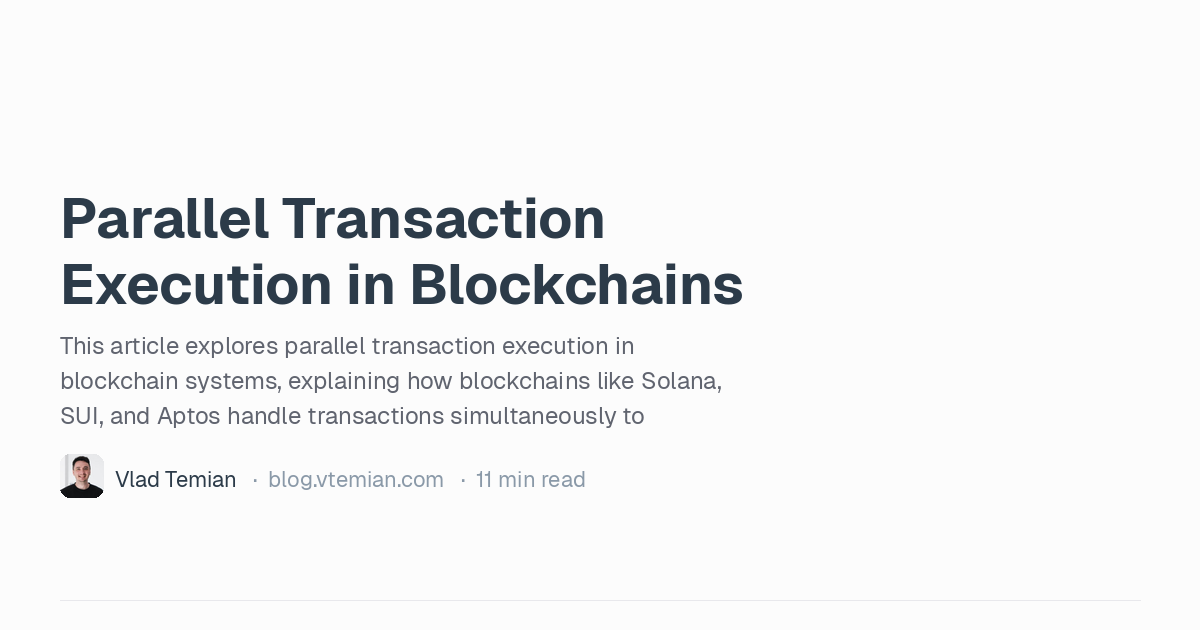
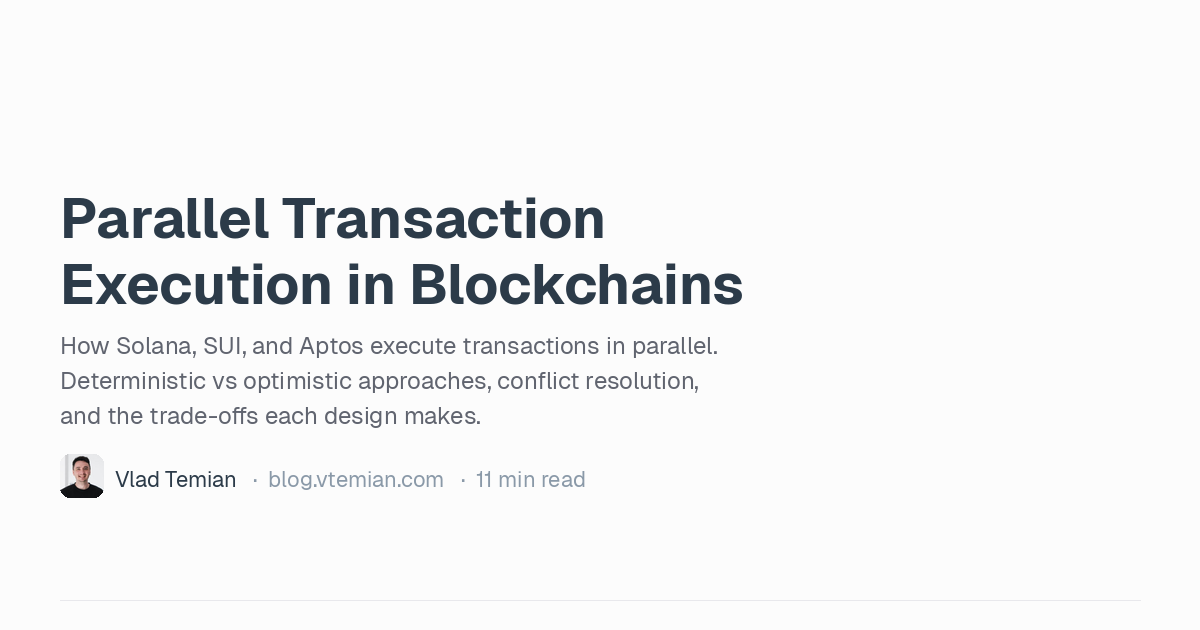
deploy: d2062916963cb2e18de21c3523e08078db9f6926

Changed region(s): [[0.0308, 0.5429, 0.6167, 0.6937]]

diff --git a/post/vibe-infer/index.html b/post/vibe-infer/index.html
@@ -1,4 +1,4 @@
-<!doctype html><html lang=en><head><script>localStorage.getItem("theme")==="dark"&&document.documentElement.classList.add("dark")</script><meta http-equiv=X-UA-Compatible content="IE=edge"><meta name=viewport content="width=device-width,minimum-scale=1"><link rel=preconnect href=https://cdn.jsdelivr.net crossorigin><link rel=stylesheet href=https://cdn.jsdelivr.net/npm/geist@1/dist/fonts/geist-sans/style.css><link rel=stylesheet href=https://cdn.jsdelivr.net/npm/geist@1/dist/fonts/geist-mono/style.css><link rel=stylesheet href=//cdnjs.cloudflare.com/ajax/libs/highlight.js/11.9.0/styles/nord.min.css><script src=//cdnjs.cloudflare.com/ajax/libs/highlight.js/11.9.0/highlight.min.js></script><script>hljs.highlightAll()</script><meta charset=utf-8><meta name=robots content="index,follow"><link rel=canonical href=https://blog.vtemian.com/post/vibe-infer/><link rel=icon type=image/svg+xml href=https://blog.vtemian.com/favicon.svg><link rel=apple-touch-icon href=https://blog.vtemian.com/favicon.svg><meta name=keywords content="gpu programming,webgpu,claude code,ai assisted learning,vibe coding,mnist,compute shaders"><meta name=description content="Everyone talks about AI-assisted learning. Here's what it actually looks like. A 155-message journey from zero WebGPU knowledge to a working MNIST classifier, with the entire conversation captured and browsable."><meta property="og:url" content="https://blog.vtemian.com/post/vibe-infer/"><meta property="og:site_name" content="Vlad Temian - Centrist Tech Optimist"><meta property="og:title" content="vibe-infer: Learning GPU Programming with Claude Code"><meta property="og:description" content="Everyone talks about AI-assisted learning. Here's what it actually looks like. A 155-message journey from zero WebGPU knowledge to a working MNIST classifier, with the entire conversation captured and browsable."><meta property="og:locale" content="en_US"><meta property="og:type" content="article"><meta property="article:published_time" content="2026-02-18T12:00:00+02:00"><meta property="article:modified_time" content="2026-02-18T12:00:00+02:00"><meta property="article:tag" content="Gpu Programming"><meta property="article:tag" content="Ai Tools"><meta property="article:tag" content="Webgpu"><meta property="article:tag" content="Learning"><meta property="og:image" content="https://blog.vtemian.com/post/vibe-infer/og.png"><meta name=twitter:card content="summary_large_image"><meta name=twitter:title content="vibe-infer: Learning GPU Programming with Claude Code"><meta name=twitter:description content="Everyone talks about AI-assisted learning. Here's what it actually looks like. A 155-message journey from zero WebGPU knowledge to a working MNIST classifier, with the entire conversation captured and browsable."><meta name=twitter:image content="https://blog.vtemian.com/post/vibe-infer/og.png"><script type=application/ld+json>{"@context":"https://schema.org","@type":"BlogPosting","mainEntityOfPage":{"@type":"WebPage","@id":"https:\/\/blog.vtemian.com\/post\/vibe-infer\/"},"headline":"vibe-infer: Learning GPU Programming with Claude Code","description":"Everyone talks about AI-assisted learning. Here\u0027s what it actually looks like. A 155-message journey from zero WebGPU knowledge to a working MNIST classifier, with the entire conversation captured and browsable.","inLanguage":"en-US","author":{"@type":"Person","name":"Vlad Temian","url":"https:\/\/blog.vtemian.com\/","sameAs":["https://github.com/vtemian","https://linkedin.com/in/vtemian","https://x.com/vtemian"]},"publisher":{"@type":"Person","name":"Vlad Temian"},"datePublished":"2026-02-18T12:00:00\u002b02:00","dateModified":"2026-02-18T12:00:00\u002b02:00","url":"https:\/\/blog.vtemian.com\/post\/vibe-infer\/","wordCount":1234,"timeRequired":"PT6M","keywords":["gpu programming","ai tools","webgpu","learning"]}</script><script type=application/ld+json>{"@context":"https://schema.org","@type":"BreadcrumbList","itemListElement":[{"@type":"ListItem","position":1,"name":"Home","item":"https:\/\/blog.vtemian.com\/"},{"@type":"ListItem","position":2,"name":"Post","item":"https:\/\/blog.vtemian.com\/post/"},{"@type":"ListItem","position":3,"name":"vibe-infer: Learning GPU Programming with Claude Code","item":"https:\/\/blog.vtemian.com\/post\/vibe-infer\/"}]}</script><title>vibe-infer: Learning GPU Programming with Claude Code</title>
+<!doctype html><html lang=en><head><script>localStorage.getItem("theme")==="dark"&&document.documentElement.classList.add("dark")</script><meta http-equiv=X-UA-Compatible content="IE=edge"><meta name=viewport content="width=device-width,minimum-scale=1"><link rel=preconnect href=https://cdn.jsdelivr.net crossorigin><link rel=stylesheet href=https://cdn.jsdelivr.net/npm/geist@1/dist/fonts/geist-sans/style.css><link rel=stylesheet href=https://cdn.jsdelivr.net/npm/geist@1/dist/fonts/geist-mono/style.css><link rel=stylesheet href=//cdnjs.cloudflare.com/ajax/libs/highlight.js/11.9.0/styles/nord.min.css><script src=//cdnjs.cloudflare.com/ajax/libs/highlight.js/11.9.0/highlight.min.js></script><script>hljs.highlightAll()</script><meta charset=utf-8><meta name=robots content="index,follow"><link rel=canonical href=https://blog.vtemian.com/post/vibe-infer/><link rel=icon type=image/svg+xml href=https://blog.vtemian.com/favicon.svg><link rel=apple-touch-icon href=https://blog.vtemian.com/favicon.svg><meta name=keywords content="gpu programming,webgpu,claude code,ai assisted learning,vibe coding,mnist,compute shaders"><meta name=description content="Everyone talks about AI-assisted learning. Here's what it actually looks like. From zero WebGPU knowledge to a working MNIST classifier in 155 messages."><meta property="og:url" content="https://blog.vtemian.com/post/vibe-infer/"><meta property="og:site_name" content="Vlad Temian - Centrist Tech Optimist"><meta property="og:title" content="vibe-infer: Learning GPU Programming with Claude Code"><meta property="og:description" content="Everyone talks about AI-assisted learning. Here's what it actually looks like. From zero WebGPU knowledge to a working MNIST classifier in 155 messages."><meta property="og:locale" content="en_US"><meta property="og:type" content="article"><meta property="article:published_time" content="2026-02-18T12:00:00+02:00"><meta property="article:modified_time" content="2026-02-18T12:00:00+02:00"><meta property="article:tag" content="Gpu Programming"><meta property="article:tag" content="Ai Tools"><meta property="article:tag" content="Webgpu"><meta property="article:tag" content="Learning"><meta property="og:image" content="https://blog.vtemian.com/post/vibe-infer/og.png"><meta name=twitter:card content="summary_large_image"><meta name=twitter:title content="vibe-infer: Learning GPU Programming with Claude Code"><meta name=twitter:description content="Everyone talks about AI-assisted learning. Here's what it actually looks like. From zero WebGPU knowledge to a working MNIST classifier in 155 messages."><meta name=twitter:image content="https://blog.vtemian.com/post/vibe-infer/og.png"><script type=application/ld+json>{"@context":"https://schema.org","@type":"BlogPosting","mainEntityOfPage":{"@type":"WebPage","@id":"https:\/\/blog.vtemian.com\/post\/vibe-infer\/"},"headline":"vibe-infer: Learning GPU Programming with Claude Code","description":"Everyone talks about AI-assisted learning. Here\u0027s what it actually looks like. From zero WebGPU knowledge to a working MNIST classifier in 155 messages.","inLanguage":"en-US","author":{"@type":"Person","name":"Vlad Temian","url":"https:\/\/blog.vtemian.com\/","sameAs":["https://github.com/vtemian","https://linkedin.com/in/vtemian","https://x.com/vtemian"]},"publisher":{"@type":"Person","name":"Vlad Temian"},"datePublished":"2026-02-18T12:00:00\u002b02:00","dateModified":"2026-02-18T12:00:00\u002b02:00","url":"https:\/\/blog.vtemian.com\/post\/vibe-infer\/","wordCount":1234,"timeRequired":"PT6M","keywords":["gpu programming","ai tools","webgpu","learning"]}</script><script type=application/ld+json>{"@context":"https://schema.org","@type":"BreadcrumbList","itemListElement":[{"@type":"ListItem","position":1,"name":"Home","item":"https:\/\/blog.vtemian.com\/"},{"@type":"ListItem","position":2,"name":"Post","item":"https:\/\/blog.vtemian.com\/post/"},{"@type":"ListItem","position":3,"name":"vibe-infer: Learning GPU Programming with Claude Code","item":"https:\/\/blog.vtemian.com\/post\/vibe-infer\/"}]}</script><title>vibe-infer: Learning GPU Programming with Claude Code</title>
 <link rel=stylesheet href=https://blog.vtemian.com/stylesheets/main.min.bf6f543d20d329f97b1ea989f7ccd774a56857411fdc6adbd08979e4303a450e.css media=screen><meta name=google-site-verification content="2qk_e0y84NNSVpaorKgeNURYF9Ni3UyJvPq9GZdGEgs"></head><body class="bg-bg font-sans text-sm leading-relaxed text-ink antialiased"><div class="mx-auto flex max-w-2xl flex-col gap-12 px-5 py-12"><a href=https://blog.vtemian.com/ class="font-mono text-xs tracking-wide text-muted">Back</a><article class="flex flex-col gap-12"><header class="flex flex-col gap-2"><h1 class=text-2xl>vibe-infer: Learning GPU Programming with Claude Code</h1><p class="text-xs text-link">February 2026</p></header><div class="flex flex-col gap-4"><p>Everyone has a story about how AI helped them learn something. &ldquo;I asked ChatGPT to explain monads and it finally clicked.&rdquo; Cool. But where&rsquo;s the actual session? Where&rsquo;s the messy back-and-forth where you got confused, the AI corrected you, and you iterated until understanding emerged?</p><p>Most AI-assisted learning stories are sanitized after the fact. You get the polished takeaway, not the process. The repo is called <a href=https://github.com/vtemian/vibe-infer>vibe-infer</a> and that&rsquo;s intentional irony, because what happened here is the opposite of vibe coding. I wrote every line of GPU code. The AI was my tutor, not my ghostwriter.</p><p>This article shows the receipts. 155 messages, captured in full, from zero WebGPU knowledge to a working MNIST classifier running compute shaders in the browser.</p><h2 id=why-gpu-programming>Why GPU Programming?</h2><p>GPU programming requires a fundamentally different mental model from writing regular application code. On a CPU, you think sequentially: fetch data, process it, return a result. On a GPU, thousands of threads execute the same instruction simultaneously across different data. You stop thinking about loops and start thinking about thread indices, workgroups, and memory barriers.</p><p><a href=https://developer.mozilla.org/en-US/docs/Web/API/WebGPU_API>WebGPU</a> is the modern browser API for GPU compute. Not just graphics rendering, but general-purpose parallel computation. The shader language is <a href=https://www.w3.org/TR/WGSL/>WGSL</a>, which looks like Rust but with its own type system and execution model. Buffers are raw bytes. There are no arrays in the JavaScript sense. You manage memory layout, type alignment, and dispatch dimensions manually.</p><p>I wanted to build a neural network from scratch on the GPU. Not by importing a framework, but by writing every compute shader by hand. Matrix multiplication, ReLU activation, softmax normalization, forward pass chaining. The goal was understanding the machinery, not just producing a working demo.</p><h2 id=the-approach-claude-as-tutor>The Approach: Claude as Tutor</h2><p>I used <a href=https://claude.ai/code>Claude Code</a>, Anthropic&rsquo;s agentic coding tool, as a pair programming partner. But the first thing I established was the dynamic: Claude guides, I write. It explains concepts, reviews my code, catches mistakes. It does not write GPU code for me.</p><iframe style=width:100%;height:1000px;border:none src="https://claudebin.com/threads/jmdbMowNTz/embed?from=7&to=10"></iframe><p>With the ground rules set, three dynamics emerged.</p><p><strong>I write the GPU code, Claude reviews it.</strong> Every compute shader, every buffer allocation, every dispatch call was written by my hands. Claude&rsquo;s role was code reviewer: catching syntax errors, pointing out API misuse, explaining GPU-specific type requirements. When I used <code>0</code> instead of <code>0.0</code> in a WGSL shader, Claude didn&rsquo;t just flag it. It explained why WGSL enforces strict typing and what happens when type coercion fails on the GPU.</p><p><strong>Claude handles the boilerplate.</strong> HTML scaffolding, CSS layout, the canvas drawing interface. None of that teaches GPU programming. Offloading it meant I could spend 100% of my mental energy on the hard, interesting parts: how workgroups distribute threads, why uniform buffers need 16-byte alignment, how reduction operations work in softmax.</p><p><strong>My pace, my depth.</strong> Unlike a course with a fixed curriculum, I controlled when to go deeper and when to move on. If workgroup scheduling fascinated me, I could ask Claude to explain dispatch dimensions three different ways. If I already understood buffer creation, I could skip ahead. The curriculum emerged from the conversation, shaped by my curiosity and my gaps.</p><h2 id=the-journey-8-lessons-from-zero-to-inference>The Journey: 8 Lessons from Zero to Inference</h2><p>The session naturally organized itself into eight progressive lessons.</p><p>It started with <strong>WebGPU Bootstrap</strong>: acquiring a GPU adapter and device. The &ldquo;hello world&rdquo; of GPU programming. Then a <strong>First Compute Shader</strong> that added two numbers on the GPU. Simple, but it proved the entire pipeline worked: buffer creation, shader compilation, command encoding, dispatch, and result readback.</p><p><strong>Matrix Multiplication</strong> was where things got real. This is the core operation of neural networks, and on the GPU, each thread computes a single element of the output matrix. You index into flat memory using <code>row * numColumns + col</code> because GPU buffers have no concept of rows or columns. Just raw bytes.</p><p><strong>ReLU Activation</strong> was a welcome breather. An &ldquo;embarrassingly parallel&rdquo; operation where every element is independent. No coordination between threads, no shared state. Just <code>max(value, 0.0)</code> across thousands of elements simultaneously.</p><p><strong>Softmax</strong> was the hardest shader. Unlike ReLU, every output element depends on every other element. You need three passes: find the maximum (for numerical stability), compute exponentials and their sum, then normalize. Getting this right meant understanding reduction operations, race conditions, and why naively exponentiating large numbers produces infinity.</p><p>The <strong>Forward Pass</strong> chained all kernels together. The critical insight here: keep data on the GPU between operations. Reading results back to JavaScript after each step would kill performance. One command encoder, multiple compute passes, data flowing between buffers without ever touching the CPU.</p><p><strong>Real Weights</strong> brought the system to life. A Python script trained a 784-to-128-to-10 network on MNIST (97.5% accuracy), exported the weights as raw binary, and loaded them into GPU buffers. The final lesson was an <strong>Interactive Canvas Demo</strong>: draw a digit, watch the GPU classify it in real-time.</p><p>Here&rsquo;s what the learning actually looked like. I implemented the matrix multiplication kernel, and Claude reviewed my code line by line.</p><iframe style=width:100%;height:1000px;border:none src="https://claudebin.com/threads/jmdbMowNTz/embed?from=55&to=62"></iframe><p>Buffer sizes in bytes, not elements. Uniform buffers need 16-byte alignment. Missing builtin parameters for thread identification. These are GPU-specific gotchas that a textbook mentions in a footnote. A tutor catches them in your actual code and explains why they matter.</p><h2 id=what-made-this-different>What Made This Different</h2><p>Two things separated this from reading documentation or watching a YouTube tutorial.</p><p><strong>The learning was personalized.</strong> I didn&rsquo;t follow someone else&rsquo;s idea of what order to learn things. When Claude introduced softmax and I didn&rsquo;t fully grasp why subtracting the maximum before exponentiation prevents overflow, I asked it to explain numerical stability from first principles. We went down that rabbit hole until it clicked. When I already understood ReLU from prior ML experience, we spent thirty seconds on it and moved on. No filler, no padding, no waiting for the rest of the class.</p><p>This is the part that surprised me most. I could verify my understanding in real-time. The loop looked like this: I write a shader, Claude reads it, finds the bugs I can&rsquo;t see yet, and explains not just <em>what&rsquo;s</em> wrong but <em>why</em> GPU programming works that way. It&rsquo;s not Q&amp;A. It&rsquo;s closer to a code review where the reviewer happens to be infinitely patient and knows every corner of the WebGPU spec.</p><p>The difference from vibe coding is worth stating plainly. In vibe coding, the AI writes the code and you ship it. Here, I wrote the code and the AI made sure I understood it. Every bug Claude caught was a concept I internalized. Every correction was a lesson I wouldn&rsquo;t need to learn again. The understanding compounds in a way that copy-pasting from an AI chat never does.</p><h2 id=the-result>The Result</h2><p>And then it worked.</p><iframe style=width:100%;height:900px;border:none src="https://claudebin.com/threads/jmdbMowNTz/embed?from=130&to=136"></iframe><p>Digit 7, classified at 99.95% confidence. Eight lessons of compute shaders, buffer management, and type wrestling, running entirely in the browser. No backend, no ML framework, no CUDA. Just WebGPU, WGSL, and a neural network I built from scratch.</p><p>You can <a href=https://vtemian.github.io/vibe-infer/>try the live demo</a> or browse <a href=https://github.com/vtemian/vibe-infer>the source code</a>. Every GPU line was written by hand. The repo includes a <a href=https://github.com/vtemian/vibe-infer/blob/main/LESSONS.md>LESSONS.md</a> file summarizing what each lesson covered.</p><p>The entire 155-message session is captured and browsable at <a href=https://claudebin.com/threads/jmdbMowNTz>claudebin.com</a>. I built <a href=https://github.com/wunderlabs-dev/claudebin.com>claudebin</a> with <a href=https://github.com/balajmarius>Marius</a> as an open-source tool for sharing Claude Code sessions. If you&rsquo;re using Claude Code and want to share a session with your team or publicly, it&rsquo;s one command to publish and get a shareable link.</p><p>Stay curious ☕</p></div></article><footer class="flex justify-between text-xs text-link"><span>&copy; 2026 <a href=https://github.com/vtemian>Vlad Temian</a></span>
 <span>Order within chaos.</span></footer></div><script type=module>
     import mermaid from 'https://cdn.jsdelivr.net/npm/mermaid@11/dist/mermaid.esm.min.mjs';

diff --git a/post/parallel-transaction-execution-in-blockchains/index.html b/post/parallel-transaction-execution-in-blockchains/index.html
@@ -1,4 +1,4 @@
-<!doctype html><html lang=en><head><script>localStorage.getItem("theme")==="dark"&&document.documentElement.classList.add("dark")</script><meta http-equiv=X-UA-Compatible content="IE=edge"><meta name=viewport content="width=device-width,minimum-scale=1"><link rel=preconnect href=https://cdn.jsdelivr.net crossorigin><link rel=stylesheet href=https://cdn.jsdelivr.net/npm/geist@1/dist/fonts/geist-sans/style.css><link rel=stylesheet href=https://cdn.jsdelivr.net/npm/geist@1/dist/fonts/geist-mono/style.css><link rel=stylesheet href=//cdnjs.cloudflare.com/ajax/libs/highlight.js/11.9.0/styles/nord.min.css><script src=//cdnjs.cloudflare.com/ajax/libs/highlight.js/11.9.0/highlight.min.js></script><script>hljs.highlightAll()</script><meta charset=utf-8><meta name=robots content="index,follow"><link rel=canonical href=https://blog.vtemian.com/post/parallel-transaction-execution-in-blockchains/><link rel=icon type=image/svg+xml href=https://blog.vtemian.com/favicon.svg><link rel=apple-touch-icon href=https://blog.vtemian.com/favicon.svg><meta name=keywords content="parallel blockchains,solana,sui,monad,sei,aptos,block-stm,state of parallel blockchains"><meta name=description content="This article explores parallel transaction execution in blockchain systems, explaining how blockchains like Solana, SUI, and Aptos handle transactions simultaneously to increase performance. It covers the differences between deterministic and optimistic methods, the challenges of conflict resolution, and how these approaches improve scalability and efficiency in blockchain technology."><meta property="og:url" content="https://blog.vtemian.com/post/parallel-transaction-execution-in-blockchains/"><meta property="og:site_name" content="Vlad Temian - Centrist Tech Optimist"><meta property="og:title" content="Parallel Transaction Execution in Blockchains"><meta property="og:description" content="This article explores parallel transaction execution in blockchain systems, explaining how blockchains like Solana, SUI, and Aptos handle transactions simultaneously to increase performance. It covers the differences between deterministic and optimistic methods, the challenges of conflict resolution, and how these approaches improve scalability and efficiency in blockchain technology."><meta property="og:locale" content="en_US"><meta property="og:type" content="article"><meta property="article:published_time" content="2024-10-18T15:32:57+02:00"><meta property="article:modified_time" content="2024-10-18T15:32:57+02:00"><meta property="article:tag" content="Blockchain"><meta property="article:tag" content="Parallel Blockchains"><meta property="article:tag" content="Solana"><meta property="article:tag" content="Sui"><meta property="article:tag" content="Monad"><meta property="article:tag" content="Sei"><meta property="og:image" content="https://blog.vtemian.com/post/parallel-transaction-execution-in-blockchains/tx-parallel.png"><meta name=twitter:card content="summary_large_image"><meta name=twitter:title content="Parallel Transaction Execution in Blockchains"><meta name=twitter:description content="This article explores parallel transaction execution in blockchain systems, explaining how blockchains like Solana, SUI, and Aptos handle transactions simultaneously to increase performance. It covers the differences between deterministic and optimistic methods, the challenges of conflict resolution, and how these approaches improve scalability and efficiency in blockchain technology."><meta name=twitter:image content="https://blog.vtemian.com/post/parallel-transaction-execution-in-blockchains/tx-parallel.png"><script type=application/ld+json>{"@context":"https://schema.org","@type":"BlogPosting","mainEntityOfPage":{"@type":"WebPage","@id":"https:\/\/blog.vtemian.com\/post\/parallel-transaction-execution-in-blockchains\/"},"headline":"Parallel Transaction Execution in Blockchains","description":"This article explores parallel transaction execution in blockchain systems, explaining how blockchains like Solana, SUI, and Aptos handle transactions simultaneously to increase performance. It covers the differences between deterministic and optimistic methods, the challenges of conflict resolution, and how these approaches improve scalability and efficiency in blockchain technology.","inLanguage":"en-US","author":{"@type":"Person","name":"Vlad Temian","url":"https:\/\/blog.vtemian.com\/","sameAs":["https://github.com/vtemian","https://linkedin.com/in/vtemian","https://x.com/vtemian"]},"publisher":{"@type":"Person","name":"Vlad Temian"},"datePublished":"2024-10-18T15:32:57\u002b02:00","dateModified":"2024-10-18T15:32:57\u002b02:00","url":"https:\/\/blog.vtemian.com\/post\/parallel-transaction-execution-in-blockchains\/","wordCount":1746,"timeRequired":"PT9M","keywords":["blockchain","parallel blockchains","solana","sui","monad","sei","aptos","block-stm","state of parallel blockchains"]}</script><script type=application/ld+json>{"@context":"https://schema.org","@type":"BreadcrumbList","itemListElement":[{"@type":"ListItem","position":1,"name":"Home","item":"https:\/\/blog.vtemian.com\/"},{"@type":"ListItem","position":2,"name":"Post","item":"https:\/\/blog.vtemian.com\/post/"},{"@type":"ListItem","position":3,"name":"Parallel Transaction Execution in Blockchains","item":"https:\/\/blog.vtemian.com\/post\/parallel-transaction-execution-in-blockchains\/"}]}</script><title>Parallel Transaction Execution in Blockchains</title>
+<!doctype html><html lang=en><head><script>localStorage.getItem("theme")==="dark"&&document.documentElement.classList.add("dark")</script><meta http-equiv=X-UA-Compatible content="IE=edge"><meta name=viewport content="width=device-width,minimum-scale=1"><link rel=preconnect href=https://cdn.jsdelivr.net crossorigin><link rel=stylesheet href=https://cdn.jsdelivr.net/npm/geist@1/dist/fonts/geist-sans/style.css><link rel=stylesheet href=https://cdn.jsdelivr.net/npm/geist@1/dist/fonts/geist-mono/style.css><link rel=stylesheet href=//cdnjs.cloudflare.com/ajax/libs/highlight.js/11.9.0/styles/nord.min.css><script src=//cdnjs.cloudflare.com/ajax/libs/highlight.js/11.9.0/highlight.min.js></script><script>hljs.highlightAll()</script><meta charset=utf-8><meta name=robots content="index,follow"><link rel=canonical href=https://blog.vtemian.com/post/parallel-transaction-execution-in-blockchains/><link rel=icon type=image/svg+xml href=https://blog.vtemian.com/favicon.svg><link rel=apple-touch-icon href=https://blog.vtemian.com/favicon.svg><meta name=keywords content="parallel blockchains,solana,sui,monad,sei,aptos,block-stm,state of parallel blockchains"><meta name=description content="How Solana, SUI, and Aptos execute transactions in parallel. Deterministic vs optimistic approaches, conflict resolution, and the trade-offs each design makes."><meta property="og:url" content="https://blog.vtemian.com/post/parallel-transaction-execution-in-blockchains/"><meta property="og:site_name" content="Vlad Temian - Centrist Tech Optimist"><meta property="og:title" content="Parallel Transaction Execution in Blockchains"><meta property="og:description" content="How Solana, SUI, and Aptos execute transactions in parallel. Deterministic vs optimistic approaches, conflict resolution, and the trade-offs each design makes."><meta property="og:locale" content="en_US"><meta property="og:type" content="article"><meta property="article:published_time" content="2024-10-18T15:32:57+02:00"><meta property="article:modified_time" content="2024-10-18T15:32:57+02:00"><meta property="article:tag" content="Blockchain"><meta property="article:tag" content="Parallel Blockchains"><meta property="article:tag" content="Solana"><meta property="article:tag" content="Sui"><meta property="article:tag" content="Monad"><meta property="article:tag" content="Sei"><meta property="og:image" content="https://blog.vtemian.com/post/parallel-transaction-execution-in-blockchains/tx-parallel.png"><meta name=twitter:card content="summary_large_image"><meta name=twitter:title content="Parallel Transaction Execution in Blockchains"><meta name=twitter:description content="How Solana, SUI, and Aptos execute transactions in parallel. Deterministic vs optimistic approaches, conflict resolution, and the trade-offs each design makes."><meta name=twitter:image content="https://blog.vtemian.com/post/parallel-transaction-execution-in-blockchains/tx-parallel.png"><script type=application/ld+json>{"@context":"https://schema.org","@type":"BlogPosting","mainEntityOfPage":{"@type":"WebPage","@id":"https:\/\/blog.vtemian.com\/post\/parallel-transaction-execution-in-blockchains\/"},"headline":"Parallel Transaction Execution in Blockchains","description":"How Solana, SUI, and Aptos execute transactions in parallel. Deterministic vs optimistic approaches, conflict resolution, and the trade-offs each design makes.","inLanguage":"en-US","author":{"@type":"Person","name":"Vlad Temian","url":"https:\/\/blog.vtemian.com\/","sameAs":["https://github.com/vtemian","https://linkedin.com/in/vtemian","https://x.com/vtemian"]},"publisher":{"@type":"Person","name":"Vlad Temian"},"datePublished":"2024-10-18T15:32:57\u002b02:00","dateModified":"2024-10-18T15:32:57\u002b02:00","url":"https:\/\/blog.vtemian.com\/post\/parallel-transaction-execution-in-blockchains\/","wordCount":1746,"timeRequired":"PT9M","keywords":["blockchain","parallel blockchains","solana","sui","monad","sei","aptos","block-stm","state of parallel blockchains"]}</script><script type=application/ld+json>{"@context":"https://schema.org","@type":"BreadcrumbList","itemListElement":[{"@type":"ListItem","position":1,"name":"Home","item":"https:\/\/blog.vtemian.com\/"},{"@type":"ListItem","position":2,"name":"Post","item":"https:\/\/blog.vtemian.com\/post/"},{"@type":"ListItem","position":3,"name":"Parallel Transaction Execution in Blockchains","item":"https:\/\/blog.vtemian.com\/post\/parallel-transaction-execution-in-blockchains\/"}]}</script><title>Parallel Transaction Execution in Blockchains</title>
 <link rel=stylesheet href=https://blog.vtemian.com/stylesheets/main.min.bf6f543d20d329f97b1ea989f7ccd774a56857411fdc6adbd08979e4303a450e.css media=screen><meta name=google-site-verification content="2qk_e0y84NNSVpaorKgeNURYF9Ni3UyJvPq9GZdGEgs"></head><body class="bg-bg font-sans text-sm leading-relaxed text-ink antialiased"><div class="mx-auto flex max-w-2xl flex-col gap-12 px-5 py-12"><a href=https://blog.vtemian.com/ class="font-mono text-xs tracking-wide text-muted">Back</a><article class="flex flex-col gap-12"><header class="flex flex-col gap-2"><h1 class=text-2xl>Parallel Transaction Execution in Blockchains</h1><p class="text-xs text-link">October 2024</p></header><div class="flex flex-col gap-4"><p>In the last couple of years, we have seen the rise of <a href=https://www.shoal.gg/p/parallel-execution-the-next-generation>infrastructure</a> projects in the blockchain space. One exciting development is <a href=https://www.recvc.com/part-i-design-space-for-parallel-blockchains/>parallel blockchains</a>, specifically those that execute a batch of transactions in parallel.</p><h2 id=concurrency-at-scale>Concurrency at Scale</h2><p>When studying those chains, you can see some parallels to classical <a href=https://en.wikipedia.org/wiki/Concurrency_control>concurrency patterns</a>, but those are hard to implement at scale.
 Why is that? In addition to executing transactions in parallel (happening at the VM layer), we also need to consider replicating their output across the network.</p><p>Let&rsquo;s explain the problem in a little more detail. We have this distributed state across multiple nodes. We don&rsquo;t sync this state as it is but use state transitions. We need to <a href=https://en.wikipedia.org/wiki/State_machine_replication>replicate state transitions</a> over the network.</p><p><img src=replicated-state-machine.png alt=replicated-state-machine></p><p>Those state transitions take the form of transactions bundled together in a <a href=https://en.wikipedia.org/wiki/Blockchain#Blocks>block</a>. A node bundles that block, then distributed and validated by other nodes. Once validated, each node mutates its local state by running <a href=https://en.wikipedia.org/wiki/Transaction_processing>transactions</a>.</p><p>We&rsquo;ll have a blockchain if we chain those bundles of state transitions. Those state transitions can be quite complex since we can run arbitrary code using arbitrary input data and generating arbitrary output data.</p><p><img src=blockchains.png alt=blockchains></p><p>We must be careful which transactions can be executed in parallel because we want to execute multiple transactions in parallel and replicate them across the network. Multiple transactions can be executed in parallel if they don’t mutate the same state in the same execution cycle.</p><p><img src=tx-parallel.png alt=tx-parallel></p><p>Given this, state access will be the key to running transactions in parallel safely.</p><h2 id=deterministic-vs-optimistic>Deterministic vs Optimistic</h2><p>There are two principal schools of thought when discussing state access and parallel blockchain execution: <a href=https://en.wikipedia.org/wiki/Deterministic_algorithm>deterministic</a> vs <a href=https://en.wikipedia.org/wiki/Optimistic_concurrency_control>optimistic</a> execution.</p><h3 id=deterministic-execution>Deterministic Execution</h3><p>In deterministic execution, we expect the same result if we run multiple parallel transactions multiple times in different orders. We call this process deterministic because we expect the same result each time.
 How can this be achieved? We need to know before execution what data each transaction will use.
